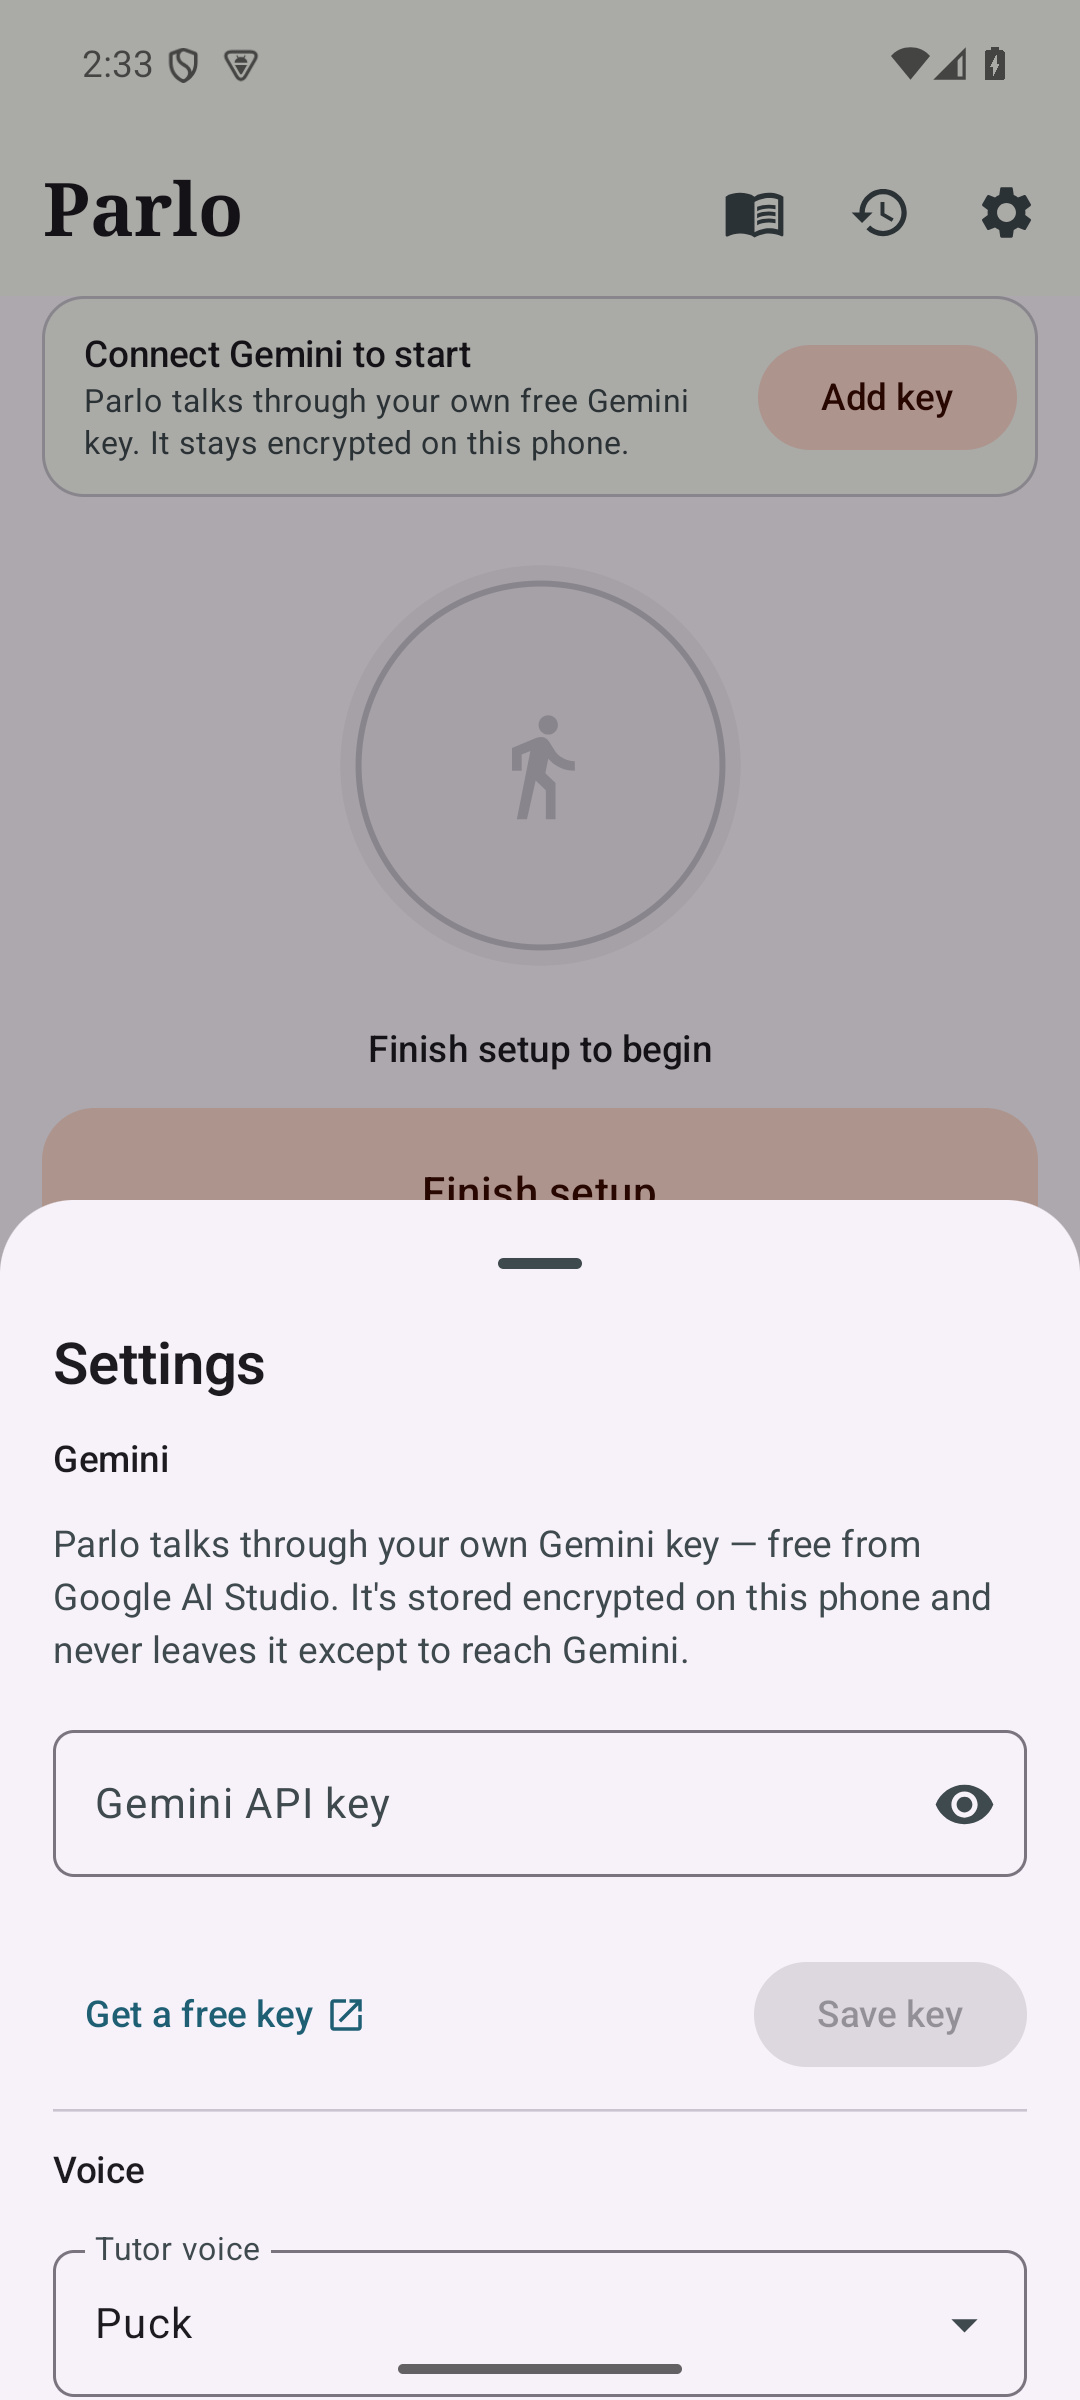
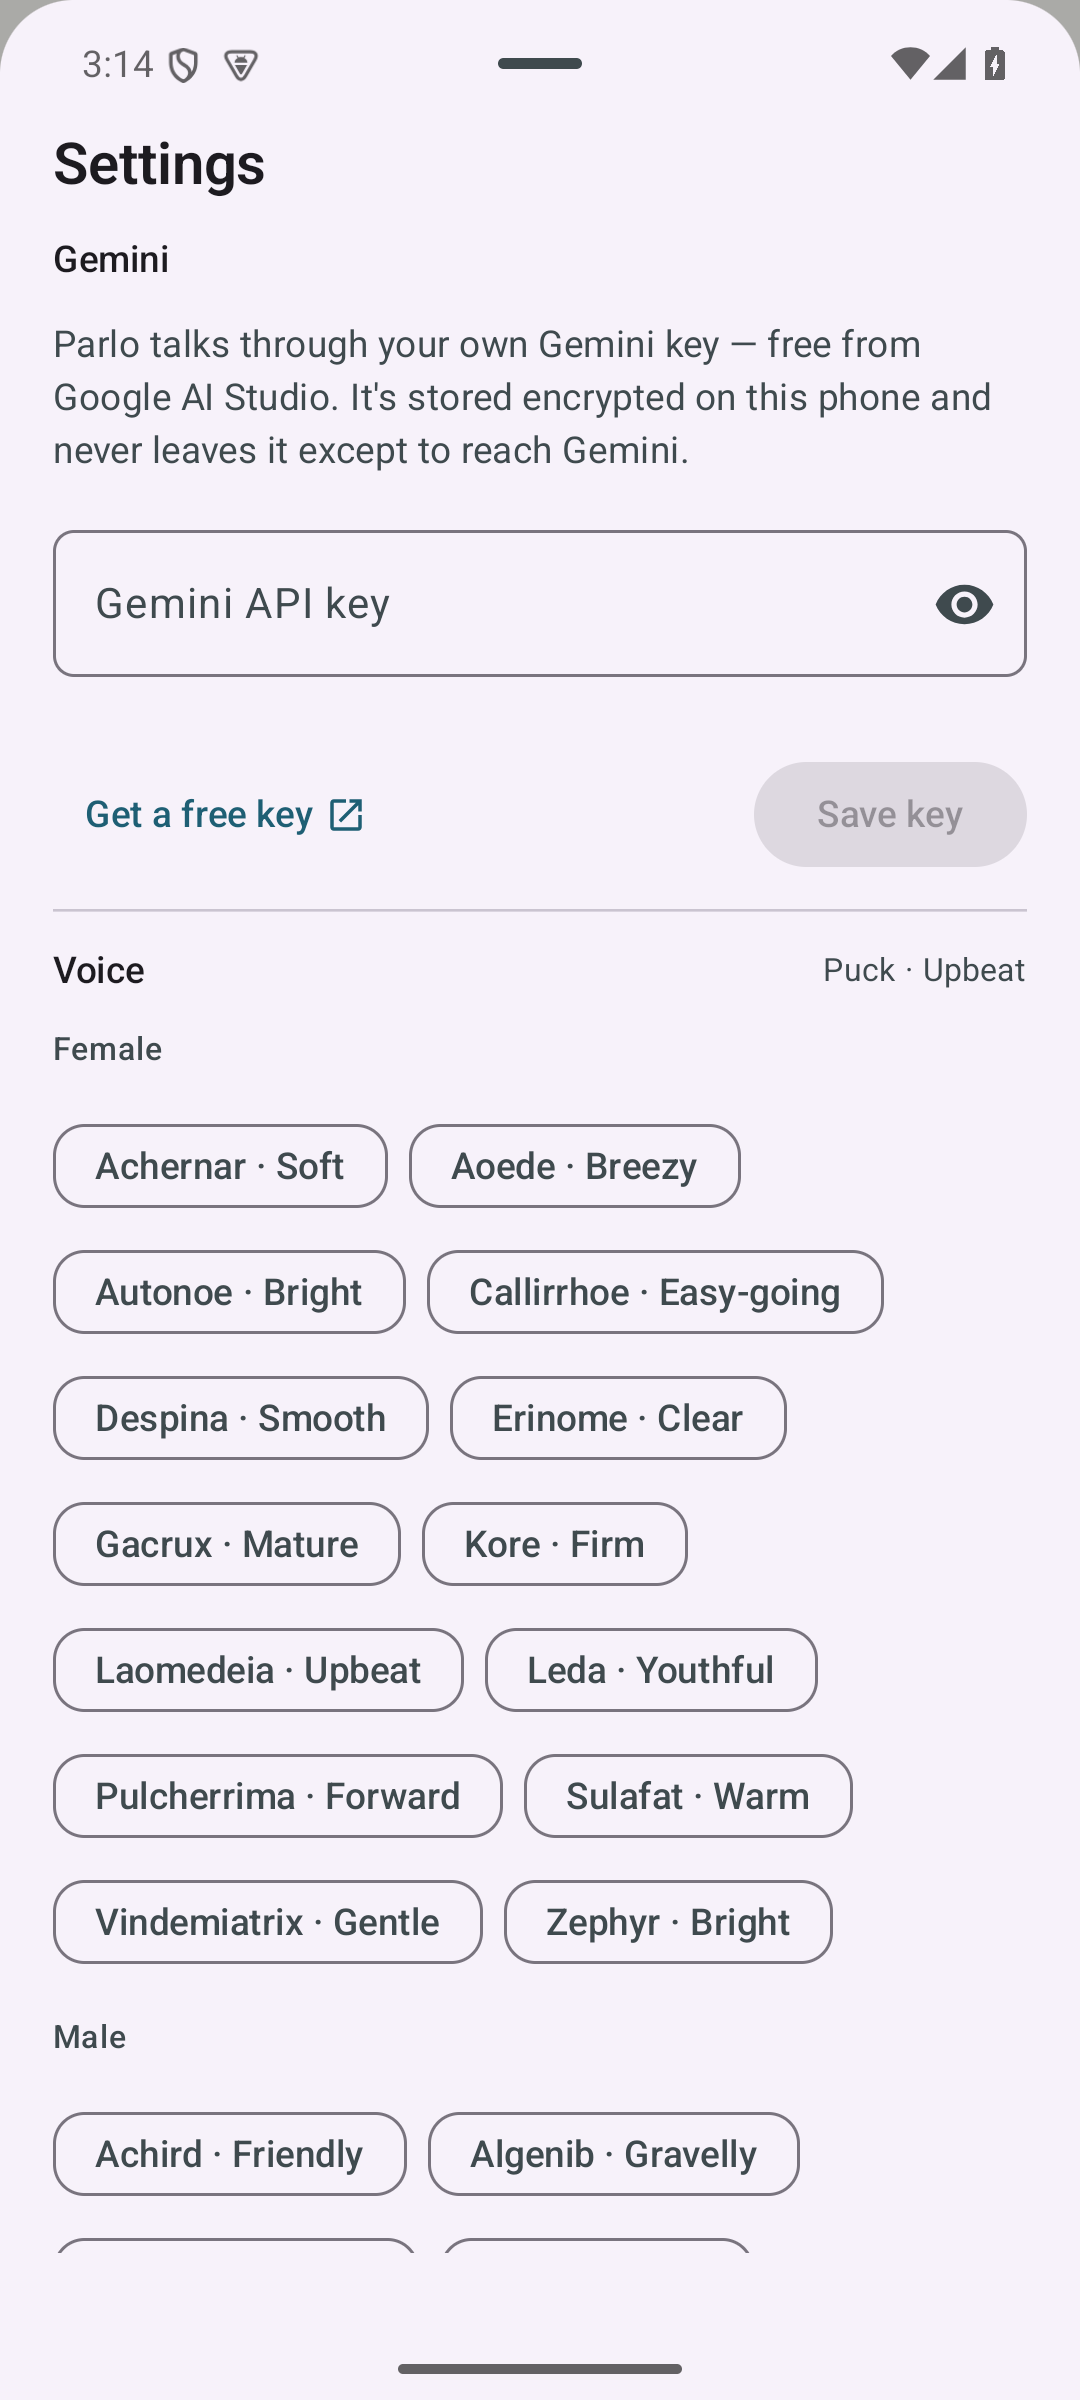
Settings: all 30 Gemini voices, grouped by gender with character labels

diff --git a/app/src/main/java/com/parlo/app/ui/settings/SettingsSheet.kt b/app/src/main/java/com/parlo/app/ui/settings/SettingsSheet.kt
@@ -6,6 +6,8 @@ import android.os.Build
 import androidx.compose.animation.AnimatedVisibility
 import androidx.compose.foundation.layout.Arrangement
 import androidx.compose.foundation.layout.Column
+import androidx.compose.foundation.layout.ExperimentalLayoutApi
+import androidx.compose.foundation.layout.FlowRow
 import androidx.compose.foundation.layout.Row
 import androidx.compose.foundation.layout.Spacer
 import androidx.compose.foundation.layout.fillMaxWidth
@@ -18,6 +20,7 @@ import androidx.compose.foundation.text.KeyboardOptions
 import androidx.compose.foundation.verticalScroll
 import androidx.compose.material.icons.Icons
 import androidx.compose.material.icons.automirrored.filled.OpenInNew
+import androidx.compose.material.icons.filled.Check
 import androidx.compose.material.icons.filled.CheckCircle
 import androidx.compose.material.icons.filled.ErrorOutline
 import androidx.compose.material.icons.filled.ExpandLess
@@ -27,6 +30,8 @@ import androidx.compose.material.icons.filled.VisibilityOff
 import androidx.compose.material3.Button
 import androidx.compose.material3.CircularProgressIndicator
 import androidx.compose.material3.ExperimentalMaterial3Api
+import androidx.compose.material3.FilterChip
+import androidx.compose.material3.FilterChipDefaults
 import androidx.compose.material3.HorizontalDivider
 import androidx.compose.material3.Icon
 import androidx.compose.material3.IconButton
@@ -51,7 +56,8 @@ import androidx.compose.ui.text.input.PasswordVisualTransformation
 import androidx.compose.ui.text.input.VisualTransformation
 import androidx.compose.ui.unit.dp
 import androidx.lifecycle.compose.collectAsStateWithLifecycle
-import com.parlo.app.model.Defaults
+import com.parlo.app.model.VoiceCatalog
+import com.parlo.app.model.VoiceGender
 import com.parlo.app.ui.MainViewModel
 import com.parlo.app.ui.SetupStatus
 import com.parlo.app.ui.main.ComboBox
@@ -128,13 +134,7 @@ fun SettingsSheet(viewModel: MainViewModel, onDismiss: () -> Unit) {
             }
 
             HorizontalDivider()
-            Text("Voice", style = MaterialTheme.typography.labelLarge)
-            ComboBox(
-                label = "Tutor voice",
-                value = ui.config.voice,
-                suggestions = Defaults.voices,
-                onValueChange = { v -> viewModel.updateConfig { it.copy(voice = v) } },
-            )
+            VoiceSection(current = ui.config.voice, onSelect = { v -> viewModel.updateConfig { it.copy(voice = v) } })
             if (ui.live.isActive) {
                 Text("Changing the voice or model reconnects the walk; the conversation carries over.", style = MaterialTheme.typography.bodySmall, color = MaterialTheme.colorScheme.onSurfaceVariant)
             }
@@ -183,6 +183,38 @@ fun SettingsSheet(viewModel: MainViewModel, onDismiss: () -> Unit) {
             Spacer(Modifier.height(8.dp))
         }
     }
+}
+
+@OptIn(ExperimentalLayoutApi::class)
+@Composable
+private fun VoiceSection(current: String, onSelect: (String) -> Unit) {
+    val selected = VoiceCatalog.find(current)
+    Row(verticalAlignment = Alignment.CenterVertically, modifier = Modifier.fillMaxWidth()) {
+        Text("Voice", style = MaterialTheme.typography.labelLarge, modifier = Modifier.weight(1f))
+        Text(
+            selected?.let { "${it.name} · ${it.character}" } ?: current,
+            style = MaterialTheme.typography.bodySmall,
+            color = MaterialTheme.colorScheme.onSurfaceVariant,
+        )
+    }
+    VoiceGender.entries.forEach { gender ->
+        Text(gender.label, style = MaterialTheme.typography.labelMedium, color = MaterialTheme.colorScheme.onSurfaceVariant)
+        FlowRow(horizontalArrangement = Arrangement.spacedBy(8.dp), verticalArrangement = Arrangement.spacedBy(0.dp), modifier = Modifier.fillMaxWidth().testTag("voices_${gender.name.lowercase()}")) {
+            VoiceCatalog.byGender(gender).forEach { v ->
+                FilterChip(
+                    selected = v == selected,
+                    onClick = { onSelect(v.name) },
+                    label = { Text("${v.name} · ${v.character}") },
+                    leadingIcon = if (v == selected) ({ Icon(Icons.Filled.Check, null, Modifier.size(FilterChipDefaults.IconSize)) }) else null,
+                )
+            }
+        }
+    }
+    Text(
+        "Applies to your next walk. You can hear samples of each voice in Google AI Studio.",
+        style = MaterialTheme.typography.bodySmall,
+        color = MaterialTheme.colorScheme.onSurfaceVariant,
+    )
 }
 
 @Composable

diff --git a/app/src/main/java/com/parlo/app/model/SessionConfig.kt b/app/src/main/java/com/parlo/app/model/SessionConfig.kt
@@ -99,5 +99,51 @@ data class LanguageCombo(
 
 object Defaults {
     val languages: List<String> get() = LanguageCatalog.languages.map { it.name }
-    val voices = listOf("Puck", "Aoede", "Charon", "Kore", "Fenrir", "Leda", "Orus", "Zephyr")
+    val voices: List<String> get() = VoiceCatalog.all.map { it.name }
+}
+
+enum class VoiceGender(val label: String) { FEMALE("Female"), MALE("Male") }
+
+/** A Gemini prebuilt voice. [character] is Google's one-word description of its tone. */
+data class Voice(val name: String, val gender: VoiceGender, val character: String)
+
+/** All 30 prebuilt Gemini voices (ai.google.dev/gemini-api/docs/speech-generation#voices). */
+object VoiceCatalog {
+    val all: List<Voice> = listOf(
+        Voice("Puck", VoiceGender.MALE, "Upbeat"),
+        Voice("Charon", VoiceGender.MALE, "Informative"),
+        Voice("Kore", VoiceGender.FEMALE, "Firm"),
+        Voice("Fenrir", VoiceGender.MALE, "Excitable"),
+        Voice("Aoede", VoiceGender.FEMALE, "Breezy"),
+        Voice("Leda", VoiceGender.FEMALE, "Youthful"),
+        Voice("Orus", VoiceGender.MALE, "Firm"),
+        Voice("Zephyr", VoiceGender.FEMALE, "Bright"),
+        Voice("Achernar", VoiceGender.FEMALE, "Soft"),
+        Voice("Achird", VoiceGender.MALE, "Friendly"),
+        Voice("Algenib", VoiceGender.MALE, "Gravelly"),
+        Voice("Algieba", VoiceGender.MALE, "Smooth"),
+        Voice("Alnilam", VoiceGender.MALE, "Firm"),
+        Voice("Autonoe", VoiceGender.FEMALE, "Bright"),
+        Voice("Callirrhoe", VoiceGender.FEMALE, "Easy-going"),
+        Voice("Despina", VoiceGender.FEMALE, "Smooth"),
+        Voice("Enceladus", VoiceGender.MALE, "Breathy"),
+        Voice("Erinome", VoiceGender.FEMALE, "Clear"),
+        Voice("Gacrux", VoiceGender.FEMALE, "Mature"),
+        Voice("Iapetus", VoiceGender.MALE, "Clear"),
+        Voice("Laomedeia", VoiceGender.FEMALE, "Upbeat"),
+        Voice("Pulcherrima", VoiceGender.FEMALE, "Forward"),
+        Voice("Rasalgethi", VoiceGender.MALE, "Informative"),
+        Voice("Sadachbia", VoiceGender.MALE, "Lively"),
+        Voice("Sadaltager", VoiceGender.MALE, "Knowledgeable"),
+        Voice("Schedar", VoiceGender.MALE, "Even"),
+        Voice("Sulafat", VoiceGender.FEMALE, "Warm"),
+        Voice("Umbriel", VoiceGender.MALE, "Easy-going"),
+        Voice("Vindemiatrix", VoiceGender.FEMALE, "Gentle"),
+        Voice("Zubenelgenubi", VoiceGender.MALE, "Casual"),
+    )
+
+    fun find(name: String): Voice? = all.firstOrNull { it.name.equals(name.trim(), ignoreCase = true) }
+
+    /** Alphabetical within gender so a long list is scannable. */
+    fun byGender(gender: VoiceGender): List<Voice> = all.filter { it.gender == gender }.sortedBy { it.name }
 }

diff --git a/app/src/test/java/com/parlo/app/model/VoiceCatalogTest.kt b/app/src/test/java/com/parlo/app/model/VoiceCatalogTest.kt
@@ -1,0 +1,30 @@
+package com.parlo.app.model
+
+import org.junit.Assert.assertEquals
+import org.junit.Assert.assertNull
+import org.junit.Assert.assertTrue
+import org.junit.Test
+
+class VoiceCatalogTest {
+
+    @Test
+    fun `all 30 Gemini voices present, unique, and default is catalogued`() {
+        assertEquals(30, VoiceCatalog.all.size)
+        assertEquals(30, VoiceCatalog.all.map { it.name }.toSet().size)
+        assertTrue(VoiceCatalog.all.all { it.character.isNotBlank() })
+        assertEquals("Puck", VoiceCatalog.find(SessionConfig().voice)?.name)
+        assertEquals(VoiceCatalog.all.map { it.name }, Defaults.voices)
+    }
+
+    @Test
+    fun `lookup is case-insensitive and gender lists are sorted and disjoint`() {
+        assertEquals("Zephyr", VoiceCatalog.find(" zephyr ")?.name)
+        assertNull(VoiceCatalog.find("HAL"))
+        val f = VoiceCatalog.byGender(VoiceGender.FEMALE)
+        val m = VoiceCatalog.byGender(VoiceGender.MALE)
+        assertEquals(f.sortedBy { it.name }, f)
+        assertEquals(m.sortedBy { it.name }, m)
+        assertEquals(30, f.size + m.size)
+        assertTrue(f.none { it in m })
+    }
+}

diff --git a/README.md b/README.md
@@ -86,7 +86,7 @@ What is *not* covered automatically: a real Gemini Live session (audio quality, 
 1. Open Parlo and tap the gear icon.
 2. Paste your Gemini API key and tap **Save**. It is stored encrypted on-device and never leaves the phone except in requests to `generativelanguage.googleapis.com`.
 3. Tap **Refresh** under *Model* to discover Live-capable models. The best native-audio model is picked automatically; type a model name to override.
-4. Pick a voice (Puck, Aoede, Charon, Kore, Fenrir, Leda, Orus, Zephyr).
+4. Pick a voice — all 30 Gemini prebuilt voices, grouped Female / Male with their character (e.g. "Sulafat · Warm", "Charon · Informative"). Preview them in Google AI Studio.
 5. Back on the main screen tap the walk card to choose language, dialect, level, and correction style, then tap **Start Walk Session**.
 
 Parlo will ask for **microphone**, **notification** (Android 13+), and **Bluetooth** (Android 12+) permissions the first time you start a session.
